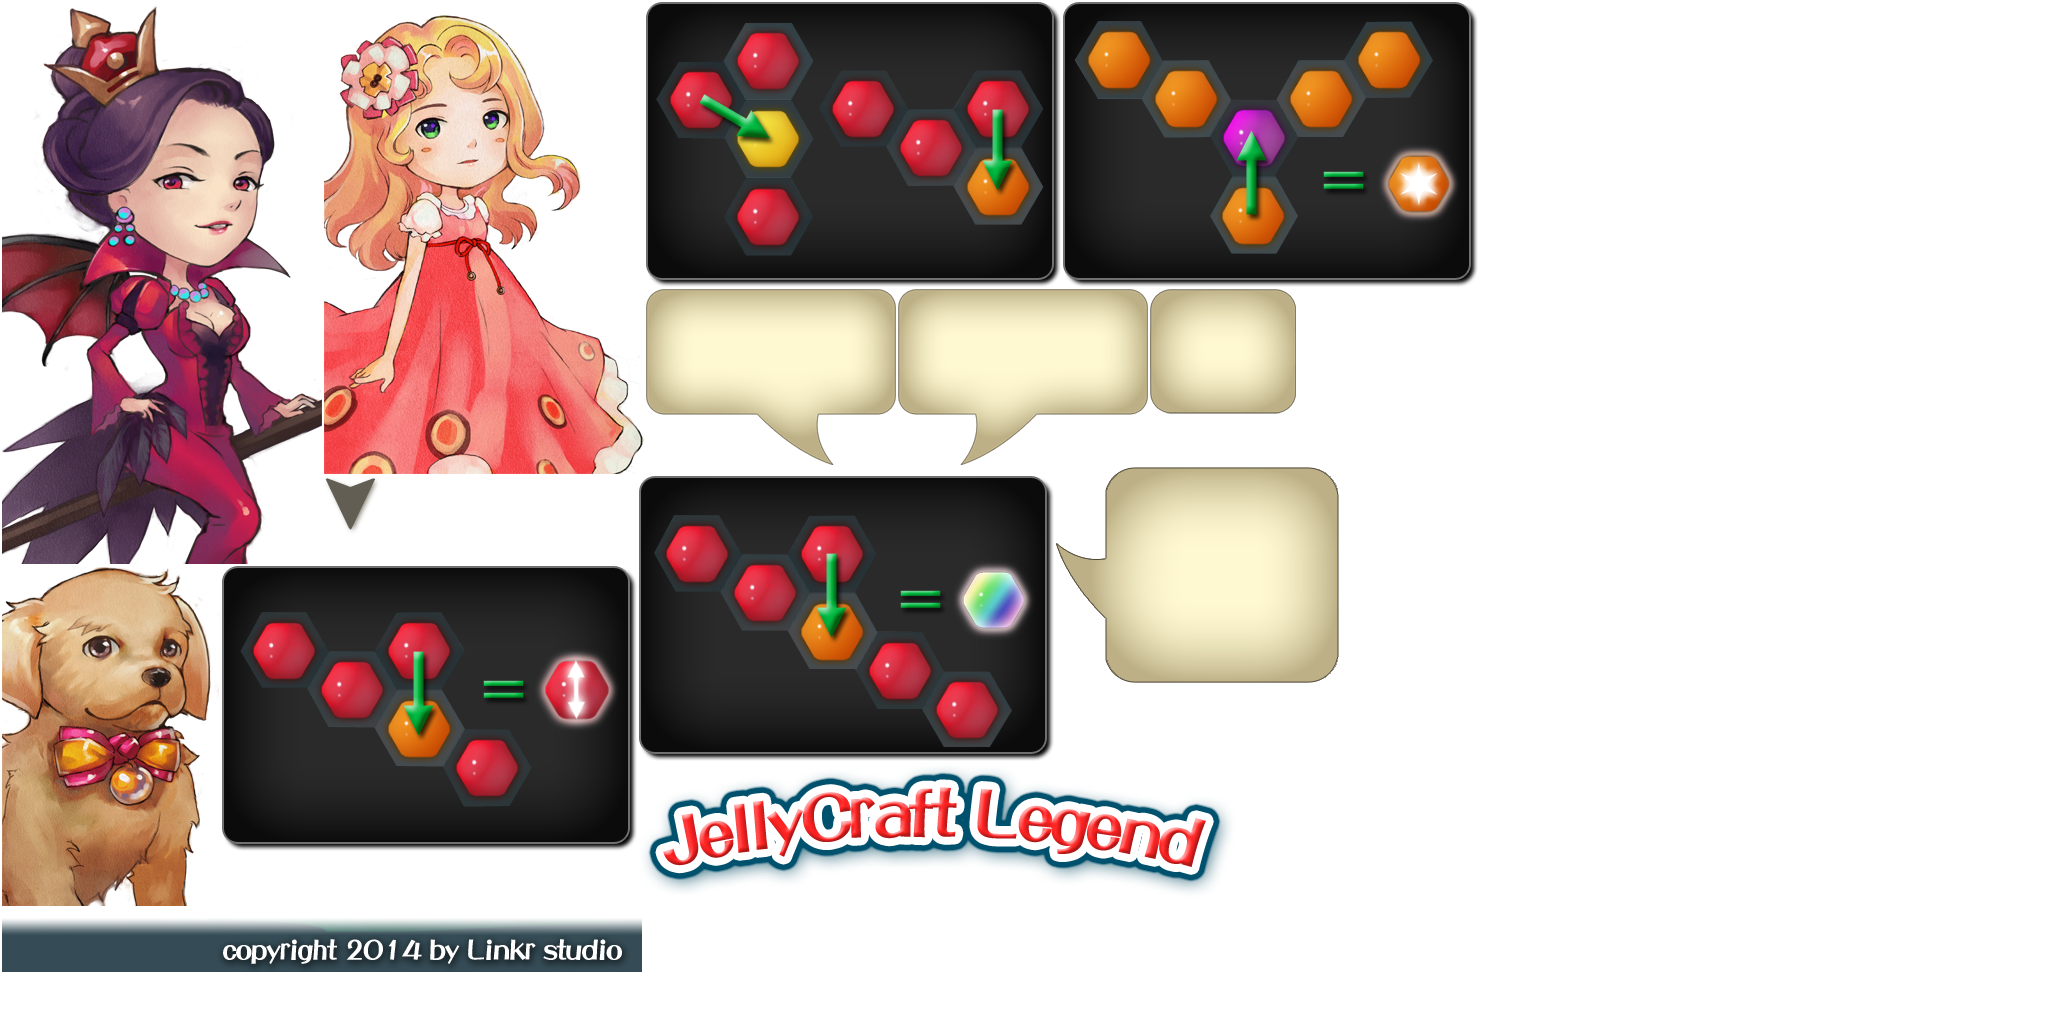
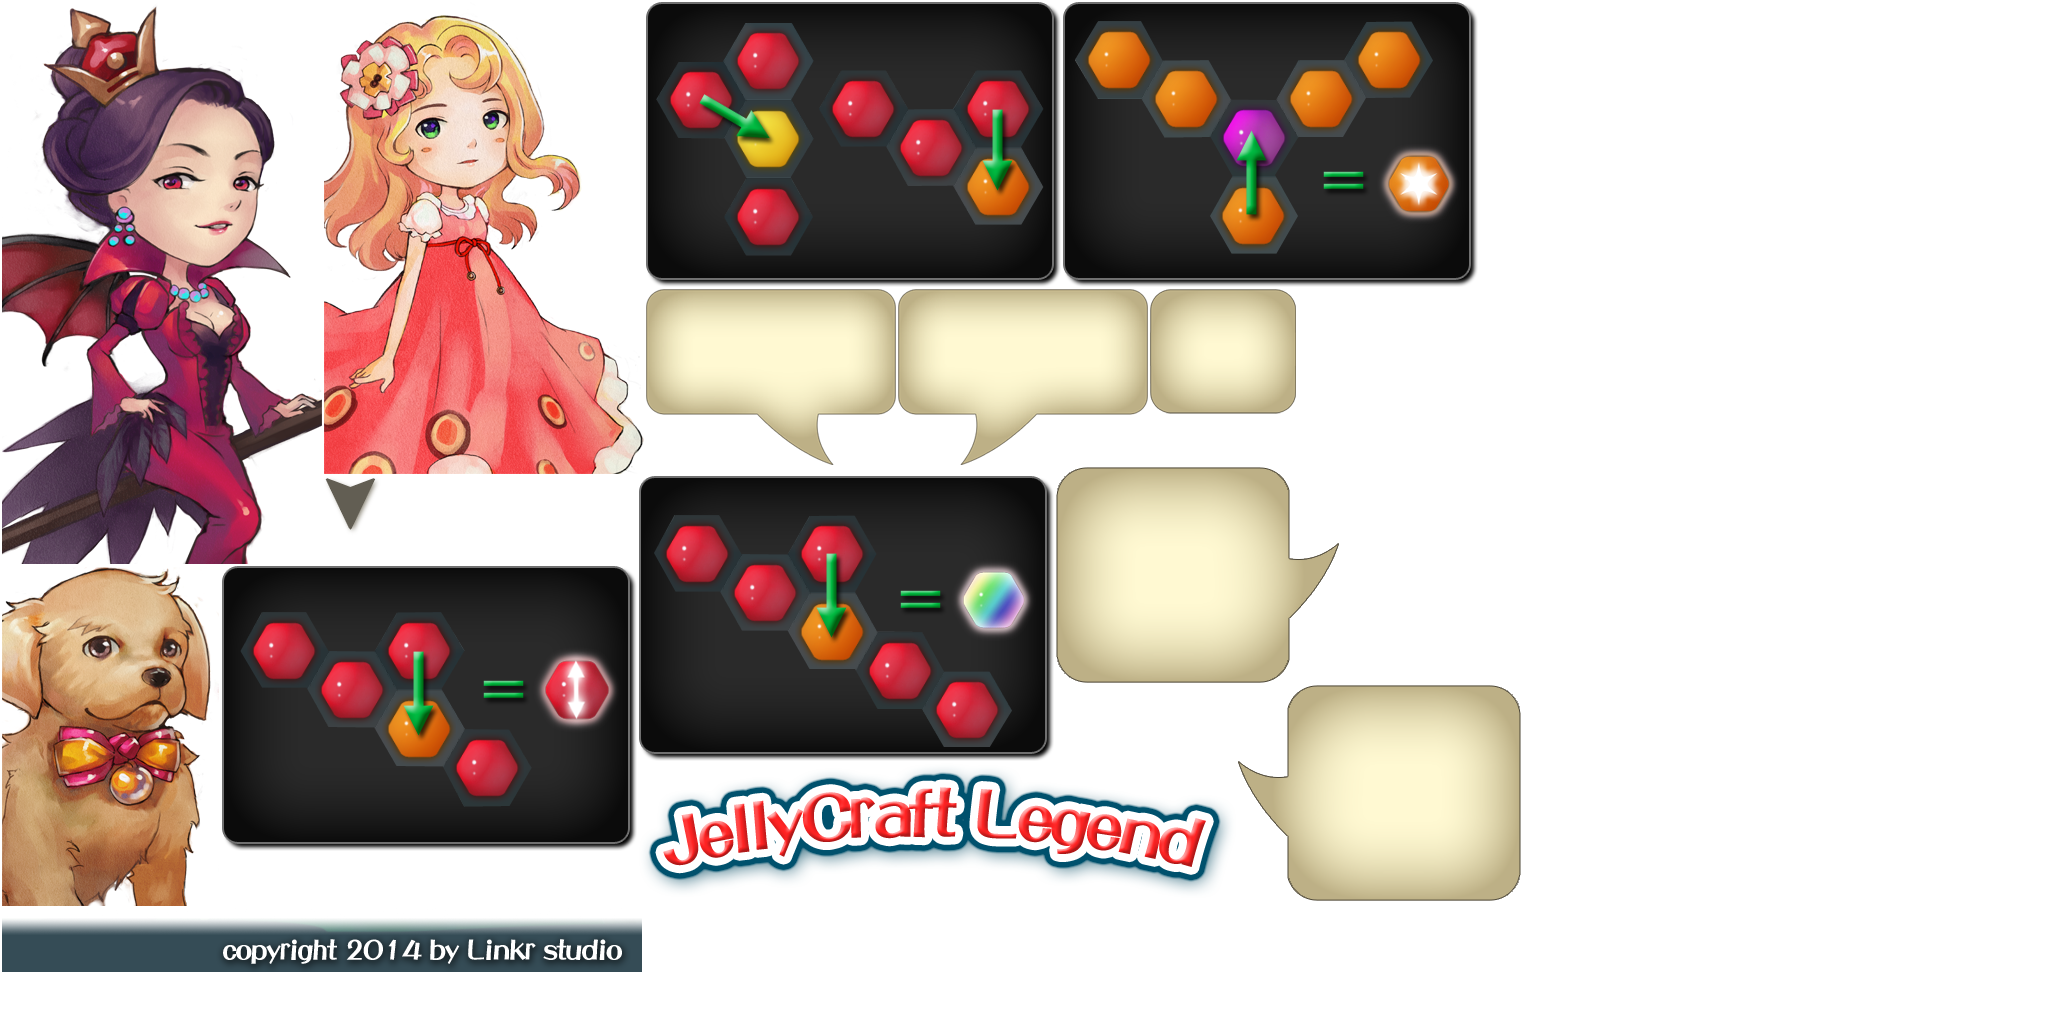
FTUE对话支持位置3，头像右边对话在上边

Changed region(s): [[0.5938, 0.4375, 0.75, 0.9062], [0.5, 0.4375, 0.5625, 0.6875]]

diff --git a/ClientProject/Assets/CSharpScripts/UIScripts/UIFTUE.cs b/ClientProject/Assets/CSharpScripts/UIScripts/UIFTUE.cs
@@ -6,7 +6,8 @@ public class UIFTUE : UIWindow
 {
     AocTypewriterEffect m_dialogText;
     UISprite m_dialogBoardSprite;
-	UISprite m_headSprite;
+	UISprite m_leftHeadSprite;
+	UISprite m_rightHeadSprite;
     UISprite m_backPic;
     UISprite [] m_pic = new UISprite [9];             //配的图片
 
@@ -165,15 +166,6 @@ public class UIFTUE : UIWindow
     public void ShowText(string head, string pic, string content, WindowEffectFinished func)
 	{
 		ShowWindow();
-		if(head != "None")
-		{
-            m_headSprite.gameObject.SetActive(true);
-            m_headSprite.spriteName = head;
-		}
-		else
-		{
-            m_headSprite.gameObject.SetActive(false);
-		}
 
         if (pic != "None")
         {
@@ -198,20 +190,54 @@ public class UIFTUE : UIWindow
             }
         }
 
-        if (m_ftueData[m_FTUEIndex].dialogPos == 0)
+        if (m_ftueData[m_FTUEIndex].dialogPos == 0)     //左上
         {
             m_dialogBoardSprite.spriteName = "TextBox";
-            m_dialogTrans.LocalPositionY(334);
-            m_dialogText.transform.LocalPositionX(-204.0f);
-            m_clickLabel.transform.LocalPositionY(-80.0f);
+            m_dialogTrans.localPosition = new Vector3(8, 306, -1);
+            m_dialogText.transform.localPosition = new Vector3(-177, 147, 1);
+            m_clickLabel.transform.localPosition = new Vector3(178, -76, 1);
         }
-        else
+        else if (m_ftueData[m_FTUEIndex].dialogPos == 1)    //左下
         {
             m_dialogBoardSprite.spriteName = "TextBox3";
-            m_dialogTrans.LocalPositionY(-311);
-            m_dialogText.transform.LocalPositionX(-172.1245f);
-            m_clickLabel.transform.LocalPositionY(-131.1079f);
+            m_dialogTrans.localPosition = new Vector3(72, -317, -1);
+            m_dialogText.transform.localPosition = new Vector3(-147, 135, 1);
+            m_clickLabel.transform.localPosition = new Vector3(174, -133, 1);
         }
+        else if (m_ftueData[m_FTUEIndex].dialogPos == 2)     //右上
+        {
+            m_dialogBoardSprite.spriteName = "TextBoxMir";
+            m_dialogTrans.localPosition = new Vector3(8, 306, -1);
+            m_dialogText.transform.localPosition = new Vector3(-177, 147, 1);
+            m_clickLabel.transform.localPosition = new Vector3(178, -76, 1);
+        }
+		
+		if(m_ftueData[m_FTUEIndex].dialogPos == 0 || m_ftueData[m_FTUEIndex].dialogPos == 1)
+		{
+			if(head != "None")
+			{
+	            m_leftHeadSprite.gameObject.SetActive(true);
+	            m_leftHeadSprite.spriteName = head;
+			}
+			else
+			{
+	            m_leftHeadSprite.gameObject.SetActive(false);
+			}
+			m_rightHeadSprite.gameObject.SetActive(false);
+		}
+		else
+		{
+			if(head != "None")
+			{
+	            m_rightHeadSprite.gameObject.SetActive(true);
+	            m_rightHeadSprite.spriteName = head;
+			}
+			else
+			{
+	            m_rightHeadSprite.gameObject.SetActive(false);
+			}
+			m_leftHeadSprite.gameObject.SetActive(false);
+		}
 		
 		m_dialogContents = content.Split('@');
 		m_curDialogIndex = 0;
@@ -230,7 +256,8 @@ public class UIFTUE : UIWindow
     {
         base.OnCreate();
 		m_dialogText = GetChildComponent<AocTypewriterEffect>("DialogText");
-		m_headSprite = GetChildComponent<UISprite>("Head");
+		m_leftHeadSprite = GetChildComponent<UISprite>("LeftHead");
+		m_rightHeadSprite = GetChildComponent<UISprite>("RightHead");
         m_dialogBoardSprite = GetChildComponent<UISprite>("DialogBoard");
         m_dialogEffectPlayer = m_dialogBoardSprite.GetComponent<UIEffectPlayer>();
         m_pointer = GameObject.Find("FTUEPointer");

diff --git a/ClientProject/Assets/CSharpScripts/StageData.cs b/ClientProject/Assets/CSharpScripts/StageData.cs
@@ -77,7 +77,7 @@ public class FTUEData
     public bool bHighLightBackground;               //是否高亮背景
     public bool bHighLightBlock;                    //是否高亮前景
     public List<Position> highLightPosList;
-    public int dialogPos = 0;                           //对话框位置0,1(上下)
+    public int dialogPos = 0;                           //对话框位置0,1,2(左上左下右下)
     public int picturePos = 9;                          //图片位置
 }
 

diff --git a/ClientProject/Assets/CSharpScripts/UIScripts/UIMap.cs b/ClientProject/Assets/CSharpScripts/UIScripts/UIMap.cs
@@ -261,6 +261,7 @@ public class UIMap : UIWindow
         base.OnHide();
         m_cloud2Sprite.gameObject.SetActive(false);
         m_cloudSprite.gameObject.SetActive(false);
+        SetStageHelp(false);
         m_heartUI.HideWindow();
         m_newStageNumber = -1;          //停止头像移动...
     }
